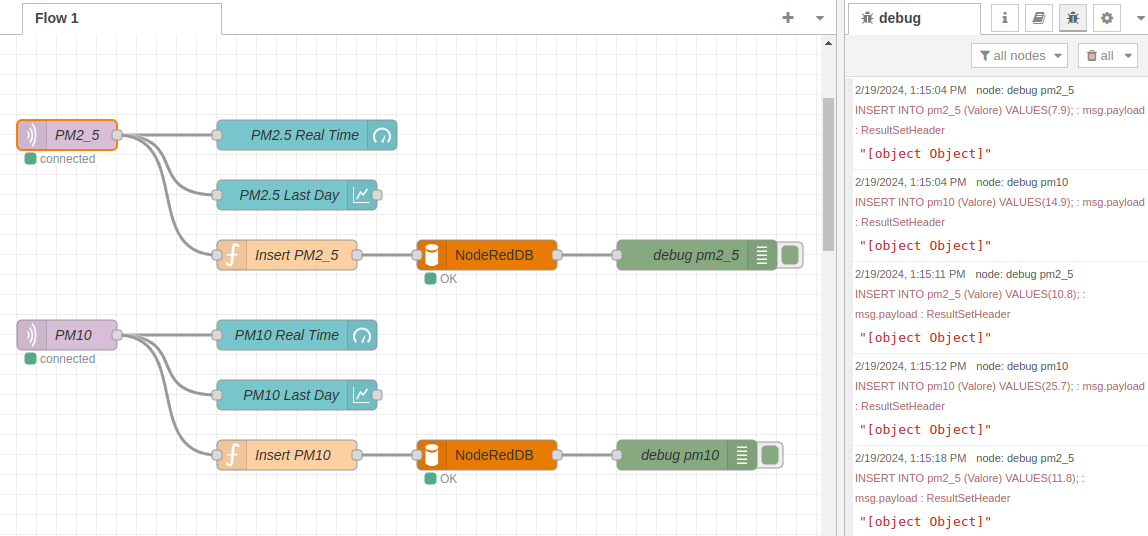
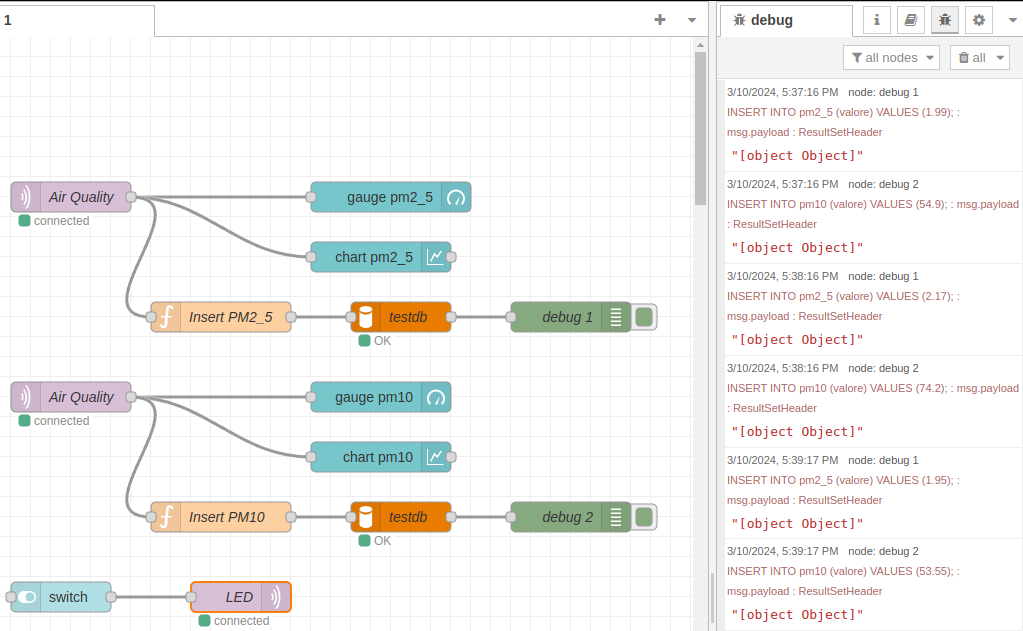
iot code improvement and nodered flow chart update

Changed region(s): [[0.0, 0.0, 1.0, 1.0]]

diff --git a/tests/esp8266/mqtt_test.md b/tests/esp8266/mqtt_test.md
@@ -28,7 +28,7 @@ Copiare il codice seguente in un file nell'Arduino IDE e sostituire i seguenti c
 Quindi collegare l'ESP8266 al pc e caricare il codice sul microcontrollore.
 
 ```
-#include <ESP8266WiFi.h>
+#include <WiFi.h>
 #include <PubSubClient.h>
 
 const char* ssid = "SSID";
@@ -40,8 +40,7 @@ const char* mqtt_server = "IP_ADDRESS";
 const char* MQTT_username = "USERNAME";
 const char* MQTT_password = "MQTT_PASSWORD";
 
-// Initializes the espClient. You should change the espClient name
-// if you have multiple ESPs running in your home automation system
+// Initializes the espClient. You should change the espClient name if you have multiple ESPs running in your home automation system
 WiFiClient espClient;
 PubSubClient client(espClient);
 
@@ -69,17 +68,17 @@ void callback(String topic, byte* message, unsigned int length) {
   Serial.print("Message arrived on topic: ");
   Serial.print(topic);
   Serial.print(". Message: ");
-  String messageString;
+  String messageTemp;
   
   for (int i = 0; i < length; i++) {
     Serial.print((char)message[i]);
-    messageString += (char)message[i];
+    messageTemp += (char)message[i];
   }
   Serial.println();
 }
 
 // This functions reconnects your ESP8266 to your MQTT broker
-// Change the function below if you want to subscribe to more topics with your ESP8266 
+// Change the function below if you want to subscribe to more topics with your ESP8266
 void reconnect() {
   // Loop until we're reconnected
   while (!client.connected()) {
@@ -111,14 +110,13 @@ void setup() {
 // For this project, you don't need to change anything in the loop function. Basically it ensures that you ESP is connected to your broker
 void loop() {
 
-  if (!client.connected()) {
+  if (!client.connected())
     reconnect();
-  }
-  if(!client.loop()) {
+  if(!client.loop())
     client.connect("ESP8266Client", MQTT_username, MQTT_password);
 
-    client.publish("TOPIC", String(5).c_str());
-    client.publish("TOPIC", String(6).c_str());
-  }
+  client.publish("TOPIC", String(5).c_str());
+  client.publish("TOPIC", String(6).c_str());
+  delay(5000);
 }
 ```

diff --git a/nodered_flow_chart.md b/nodered_flow_chart.md
@@ -52,6 +52,16 @@ e il nodo per la connessione al DB
 
 ![MySQL Node](./images/nodered/mysql_node.png)
 
+Non resta che configurare il nodo relativo allo switch per il led
+
+![LED Switch](./images/nodered/led_switch.png)
+
+e l'invio all'ESP tramite MQTT
+
+![MQTT LED](./images/nodered/mqtt_led.png)
+
+---
+
 Se abbiamo configurato tutti i nodi correttamente e clicchiamo su **Deploy**, andando nel tab di *Debug* di Node-RED dovremmo vedere le query che vengono inviate al nostro DB
 
 ![Debug Output](./images/nodered/debug_output.png)

diff --git a/iot_system.md b/iot_system.md
@@ -4,9 +4,11 @@ layout: default
 nav_order: 9
 ---
 
-# Test del display SSD1306
+# Creazione di un sistema IoT completo
 
 Prendendo spunto dagli step precedenti, creare un sistema IoT che permetta lo scambio di dati tra l'ESP, il Raspberry Pi per raccogliere i dati dai sensori, salvarli nel DB MySQL.
+
+![Node-Red IoT System](../../images/wiring_diagrams/iot_system.png)
 
 ## 0. Componenti necessari
 
